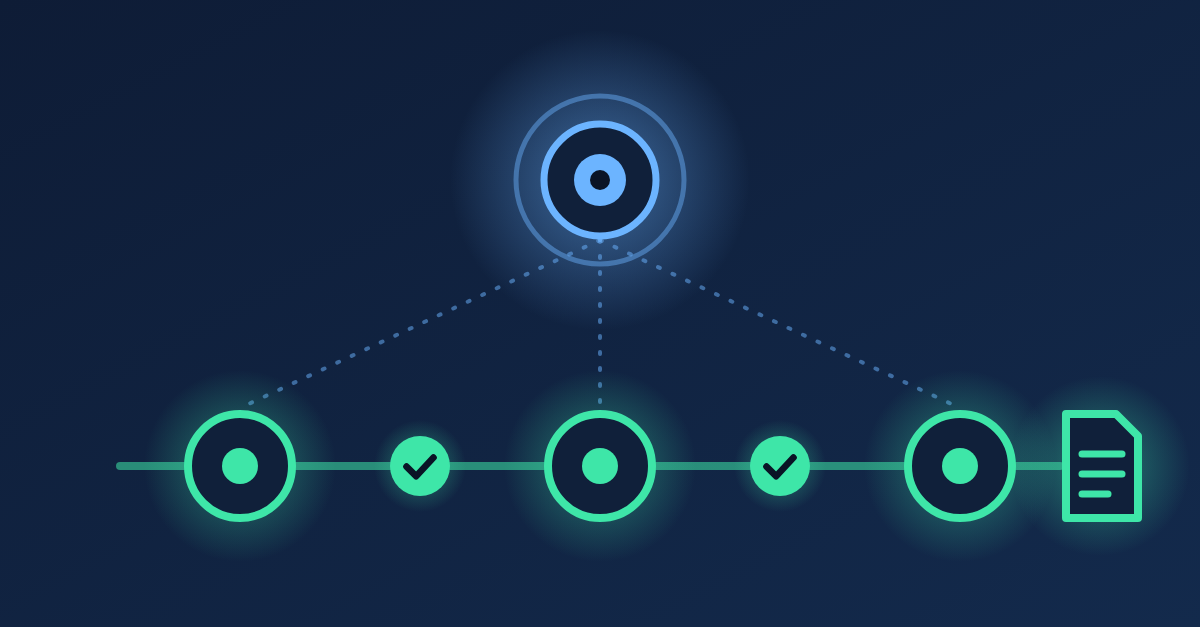
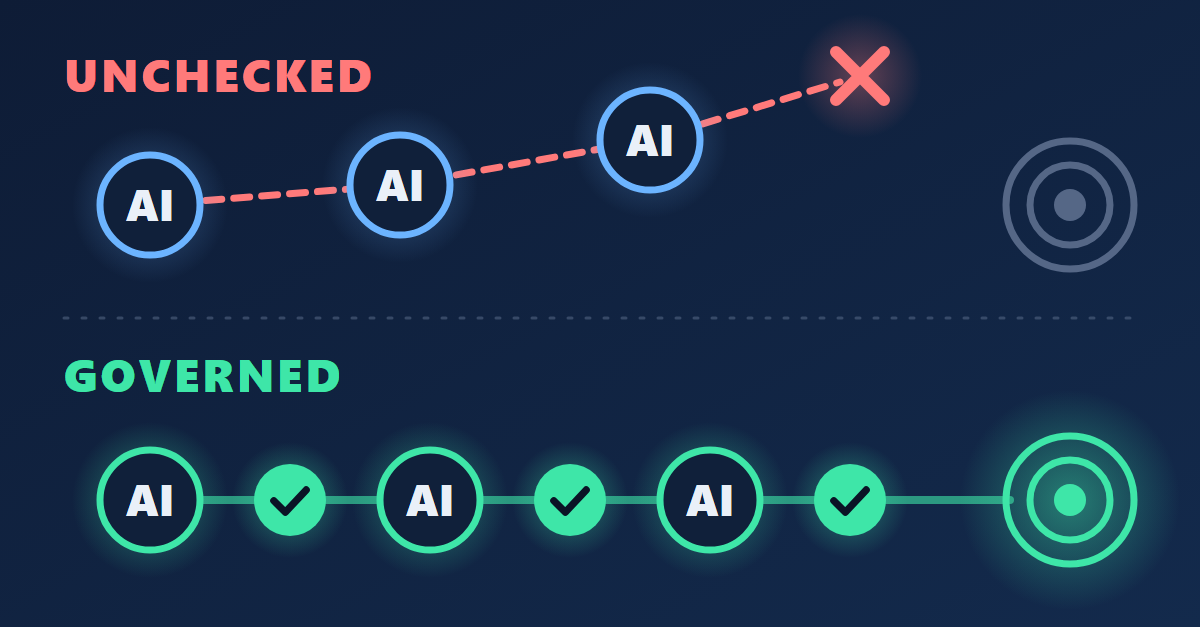
Observer Prime cover: self-explanatory unchecked versus governed rows
Top row, unchecked AI steps drift off and miss the target. Bottom row,
governed AI steps each pass an approval check and hit it. Labels and
shapes sized to read at the 300px left rail.

diff --git a/themed-executive.html b/themed-executive.html
@@ -1032,7 +1032,7 @@
           </div>
         </article>
         <article class="proj-card anim">
-          <div class="proj-cover"><img src="blog/observer-prime/cover.webp?v=0f472724" alt="Observer Prime cover" loading="lazy" width="1200" height="627"></div>
+          <div class="proj-cover"><img src="blog/observer-prime/cover.webp?v=d006abb3" alt="Observer Prime cover" loading="lazy" width="1200" height="627"></div>
           <div class="proj-body">
             <p class="proj-kind">Agentic workflow engine</p>
             <h3>Observer Prime</h3>
